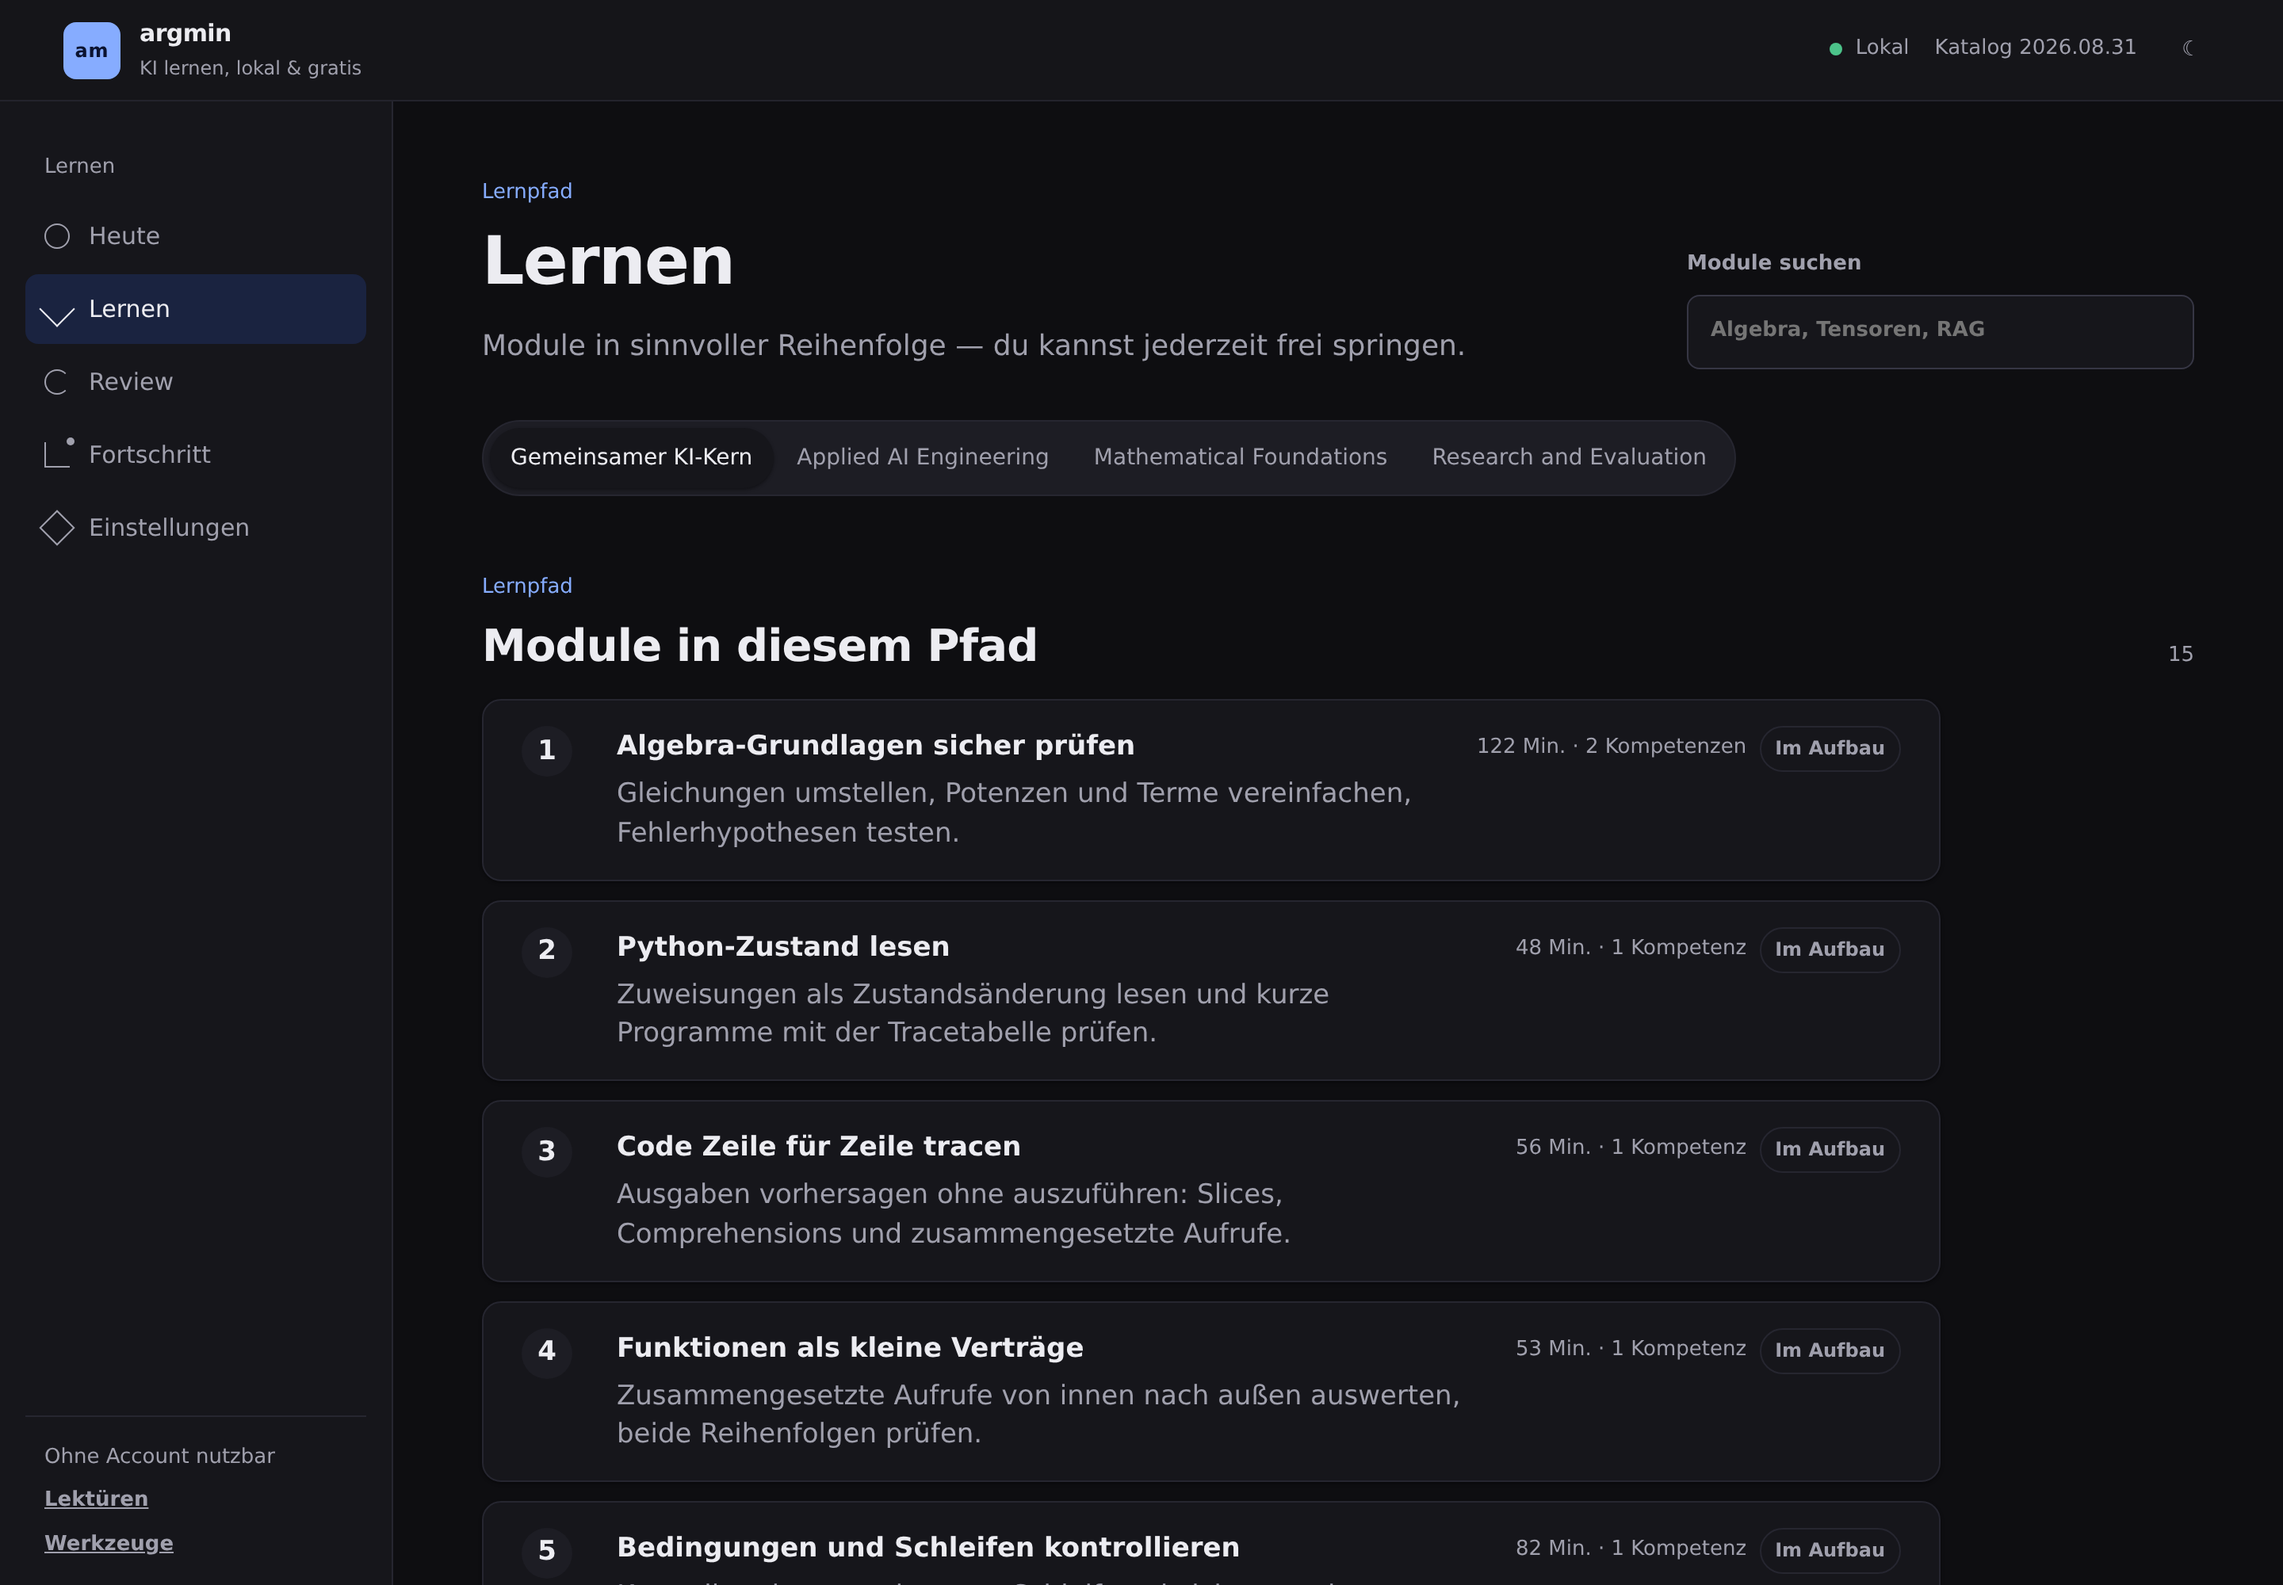
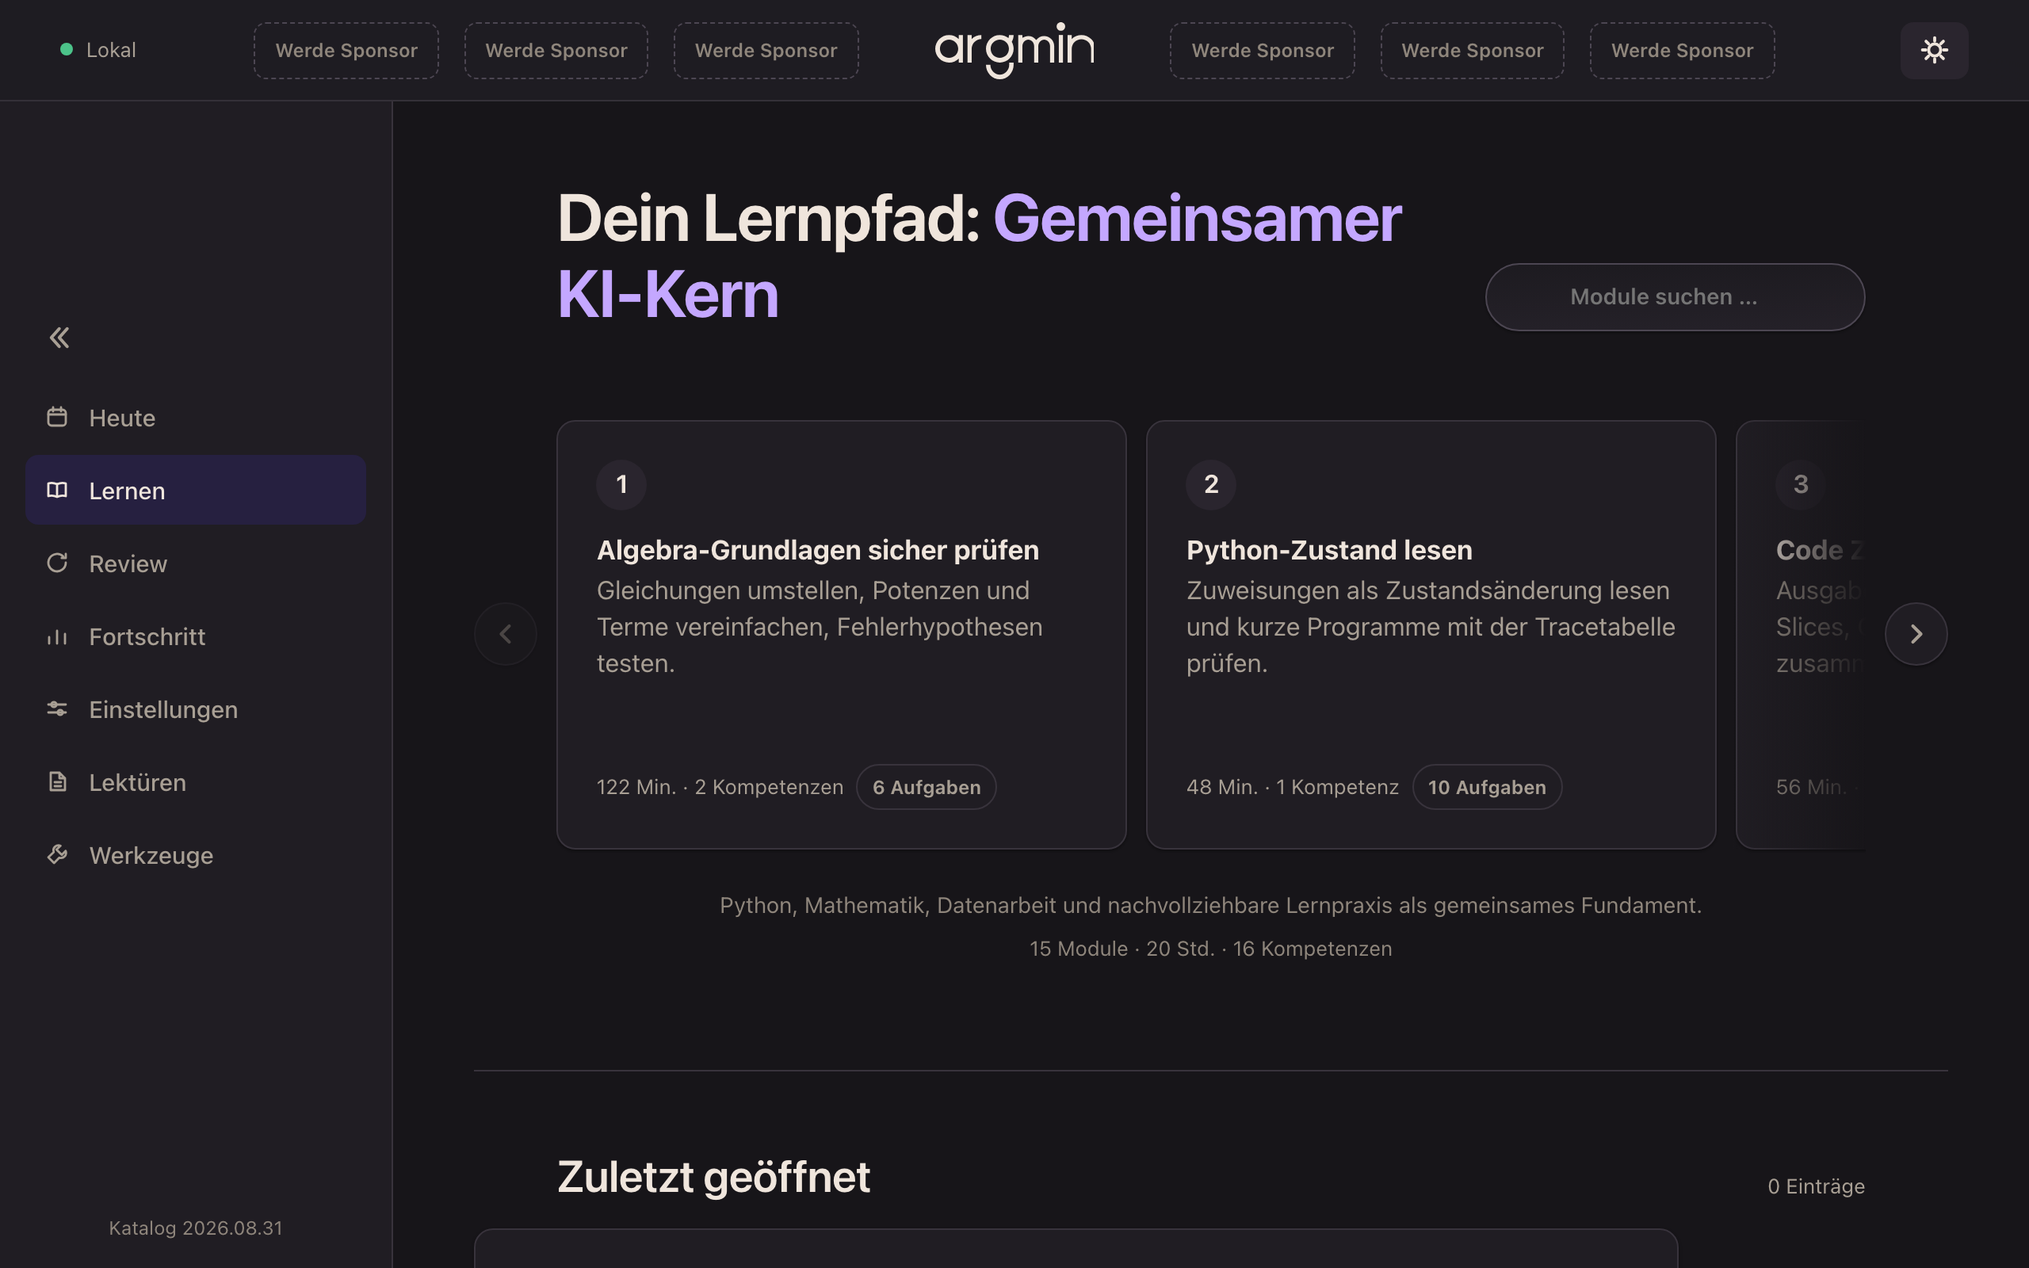
README: neue Screenshots und Python-Demo-GIF

diff --git a/README.md b/README.md
@@ -2,7 +2,7 @@
 
 **KI verstehen, Schritt für Schritt. Auf Deutsch, direkt im Browser. Kostenlos.**
 
-[![Der Lernpfad in argmin: Module in sinnvoller Reihenfolge, dunkles Theme](docs/media/lernpfad-dark.png)](https://smashburger-dev.github.io/argmin/)
+[![Die Heute-Seite in argmin: Empfehlung, Milestone und Wochenplan, dunkles Theme](docs/media/heute-dark.png)](https://smashburger-dev.github.io/argmin/)
 
 argmin ist eine offene Lernplattform für alle, die verstehen wollen, wie künstliche Intelligenz wirklich funktioniert: von den Mathe-Grundlagen über Lineare Algebra und Machine Learning bis zu Deep Learning, Transformern und GenAI. Kein Vorwissen nötig. Fang von dort an, wo du jetzt gerade stehst.
 
@@ -28,12 +28,13 @@ Das war's. Dein Fortschritt bleibt in deinem Browser auf deinem Gerät. Du kanns
 ## Was dich erwartet
 
 - **46 Lektionen und über 250 Aufgaben** in kleinen, verständlichen Schritten. Mathe, Lineare Algebra, ML, Deep Learning, Transformer, GenAI.
+
+[![Der Lernpfad in argmin: Module in sinnvoller Reihenfolge, dunkles Theme](docs/media/lernpfad-dark.png)](https://smashburger-dev.github.io/argmin/)
+
 - **Python direkt im Browser.** Du schreibst und testest echten Code, ohne irgendetwas zu installieren.
   + NumPy für Matrizen und Vektoren, sauber gesetzte Formeln (KaTeX) und interaktive Grafiken zum Anfassen (JSXGraph)… LOKAL!
 
-  ![Eine Programmieraufgabe in argmin: Formel, Python-Editor und grünes Prüfergebnis](docs/media/python-aufgabe-dark.png)
-
-  <!-- GIF-Platz: docs/media/python-demo.gif (Code tippen, prüfen, grün) — kommt noch. -->
+  ![Demo: Code in den Editor tippen, prüfen, alle Tests bestehen](docs/media/python-demo.gif)
 - **Üben, bis es sitzt.** Konzeptfragen, Coding, Ablauf, Parsons, Vektor: neuer Seed, neue Variante. Gleicher Seed, gleiche Aufgabe.
 - **Ehrliches Feedback.** Deine Antworten werden nachvollziehbar und deterministisch geprüft. Keine KI, die rät, ob du richtig liegst.
 - **Ein Plan, der zu dir passt.** Wiederholungen zum richtigen Zeitpunkt und ein Wochenplan nach deinem Zeitbudget
